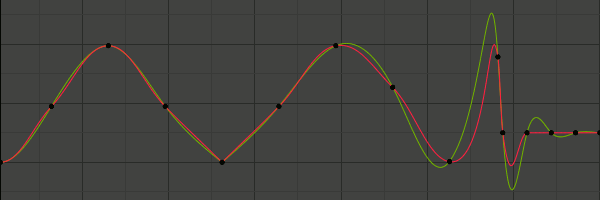
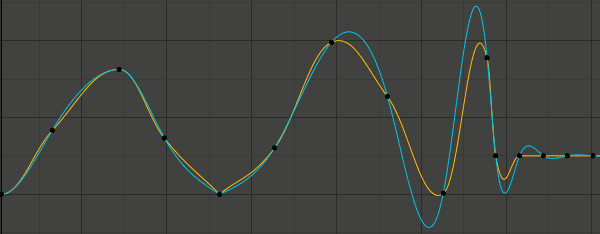
Improve the example image and wording for Auto Handle Smoothing options.

diff --git a/manual/editors/graph_editor/fcurves/properties.rst b/manual/editors/graph_editor/fcurves/properties.rst
@@ -36,31 +36,34 @@ Auto Handle Smoothing
    .. figure:: /images/editors_graph-editor_fcurves_properties_auto_smoothing.png
       :align: center
 
-      Handle smoothing mode comparison. Red: *None*, Green: *Continuous Acceleration*.
+      Handle smoothing mode comparison. Yellow: *None*, Cyan: *Continuous Acceleration*.
 
       From left to right, 4 *Auto Clamped* keys, 1 *Vector*, and the rest are *Automatic*.
 
    None
       Only directly adjacent key values are considered when computing the handles.
+      Vector handles are pointed directly at the adjacent keyframes.
 
       This older method is very simple and predictable, but it can only produce
-      good smooth curves in the most trivial cases. Note the kinks in the red curve
-      around the keys on the slopes.
+      truly smooth curves in the most trivial cases. Note the kinks in the yellow curve
+      around the keys located between the extremes, and near the Vector handles.
 
    Continuous Acceleration
-      A system of equations is solved for each continuous stretch of curve without manual handles in order to
-      avoid or minimize jumps in acceleration at every keyframe.
+      A system of equations is solved for each continuous stretch of curve without manual handles
+      in order to avoid or minimize jumps in acceleration at every keyframe. Vector handles are
+      integrated into the curves as smooth transitions to imaginary straight lines beyond the
+      keyframe.
 
       This automatically produces significantly more smooth curves, but necessarily means
       that any changes in the key values may affect interpolation over a significant stretch
       of the curve, although the amount of change decays exponentially with distance.
       This change propagation is completely stopped by any key with *Free*, *Aligned*,
-      *Vector*, or extreme *Auto Clamped* handles.
+      or *Vector* handles, as well as *Auto Clamped* extremes.
 
       This mode also tends to produce more overshoot and oscillation with fully *Automatic*
       handles in some cases (see the right end of the curves), so it is recommended to use
       *Auto Clamped* by default, and only switch to *Automatic* handles in places where this
-      is desired behavior.
+      is desired behavior. This effect can also be reduced by adding in-between keys.
 
    Considering the upsides and downsides of each mode, *Contiuous Acceleration* should be
    better suited for limited animation, which uses a small number of interpolated keys with
